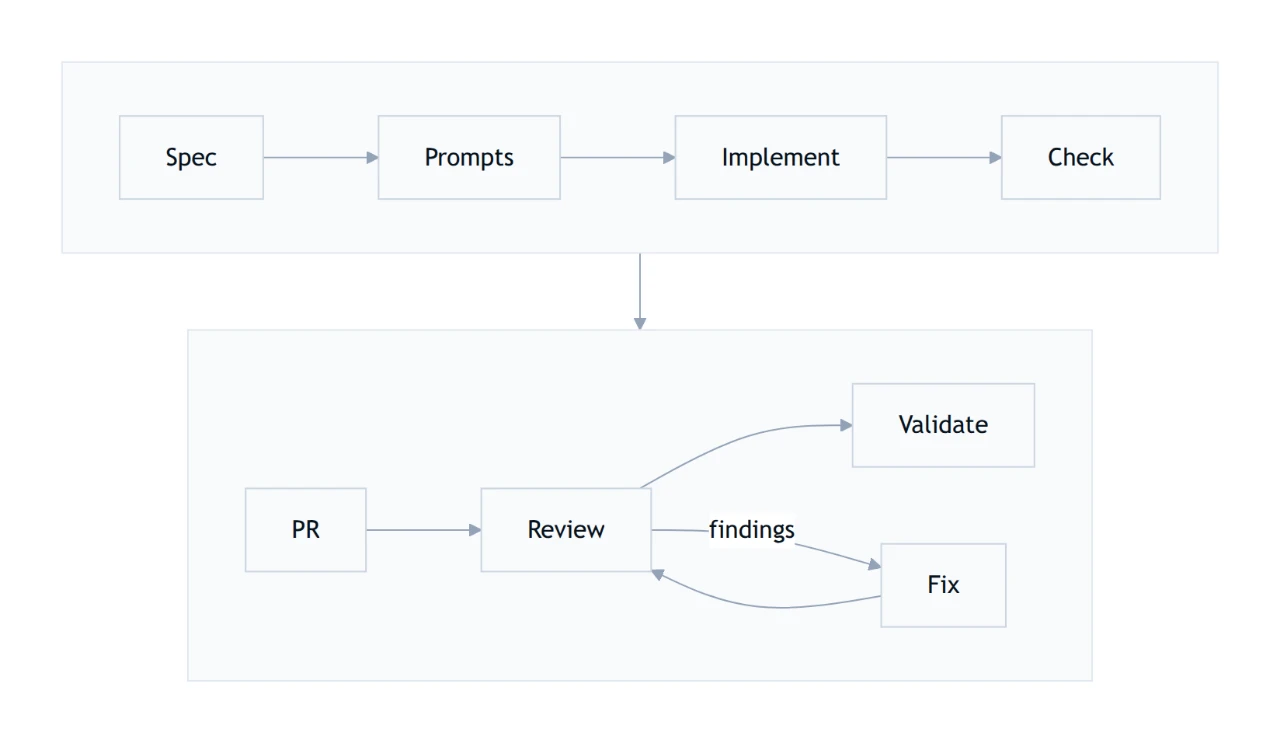
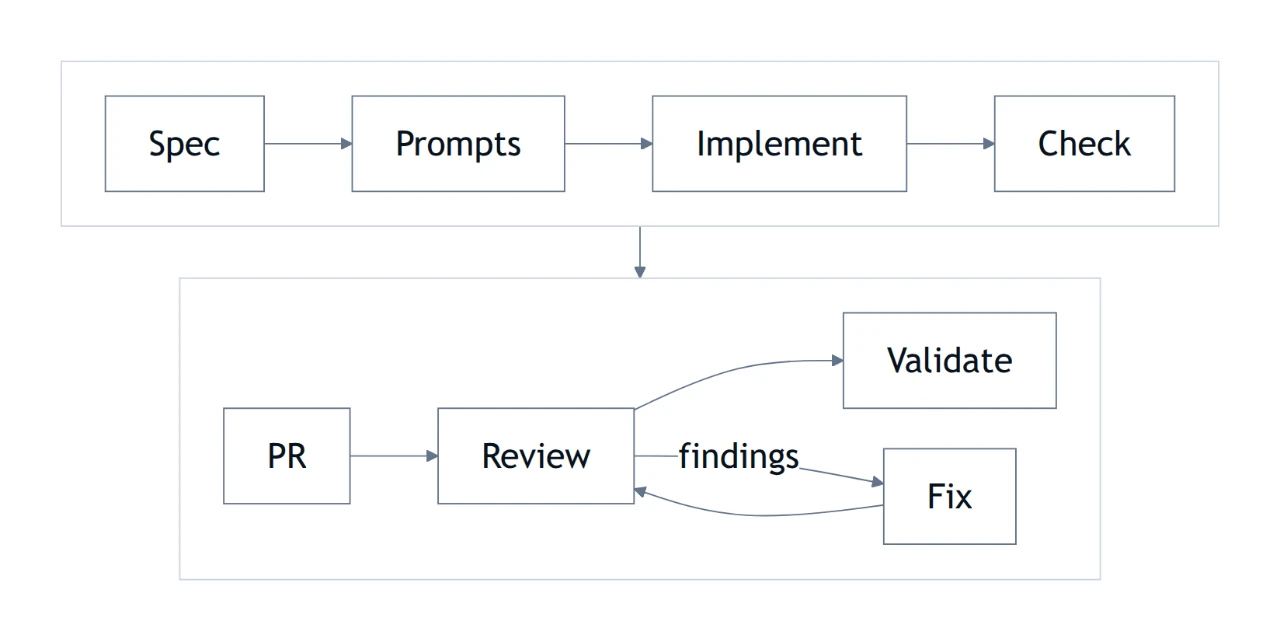
fix(work): make the diagram teasers legible on the dark page
The teaser diagrams drew 16px text on a wide canvas, so at ~480 css px the
labels shrank to about 8px, and light gray node borders nearly vanished
once WorkImage inverted them. Teasers now use 24px text, tighter spacing,
slate node borders and unfilled groups. The AI-first teaser names its core
on the edge, since the group title overlapped the nodes at that size.

diff --git a/src/content/work.ts b/src/content/work.ts
@@ -52,7 +52,7 @@ const saf: CaseStudy = {
 		src: "/images/work/sdd-agentic-flow-teaser",
 		widths: [480, 720, 1280],
 		width: 1280,
-		height: 743,
+		height: 642,
 		fit: "contain",
 	},
 	links: [
@@ -197,7 +197,7 @@ const aiFirstBanking: CaseStudy = {
 		src: "/images/work/ai-first-online-banking-teaser",
 		widths: [480, 720, 1280],
 		width: 1280,
-		height: 727,
+		height: 691,
 		fit: "contain",
 	},
 	links: [],
